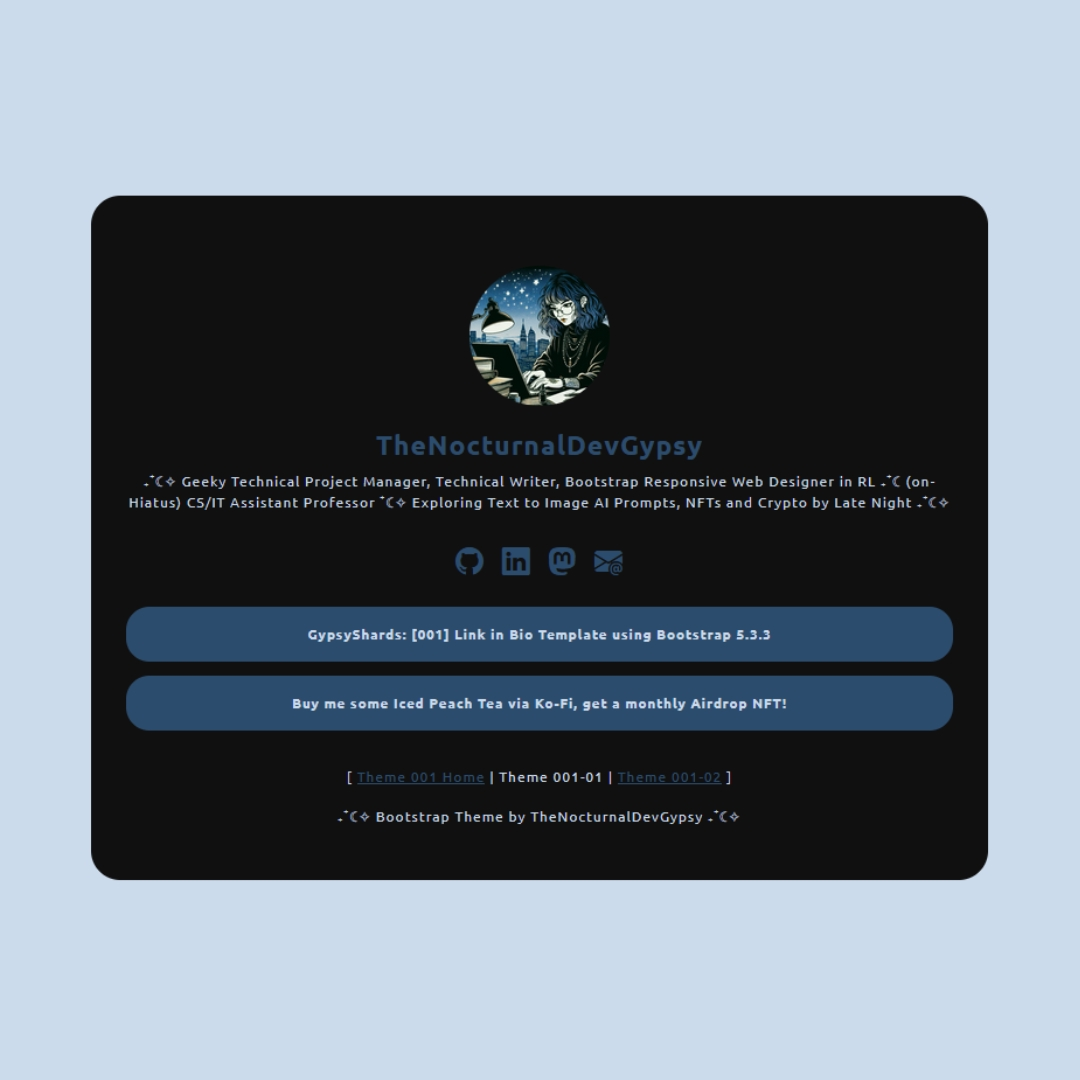
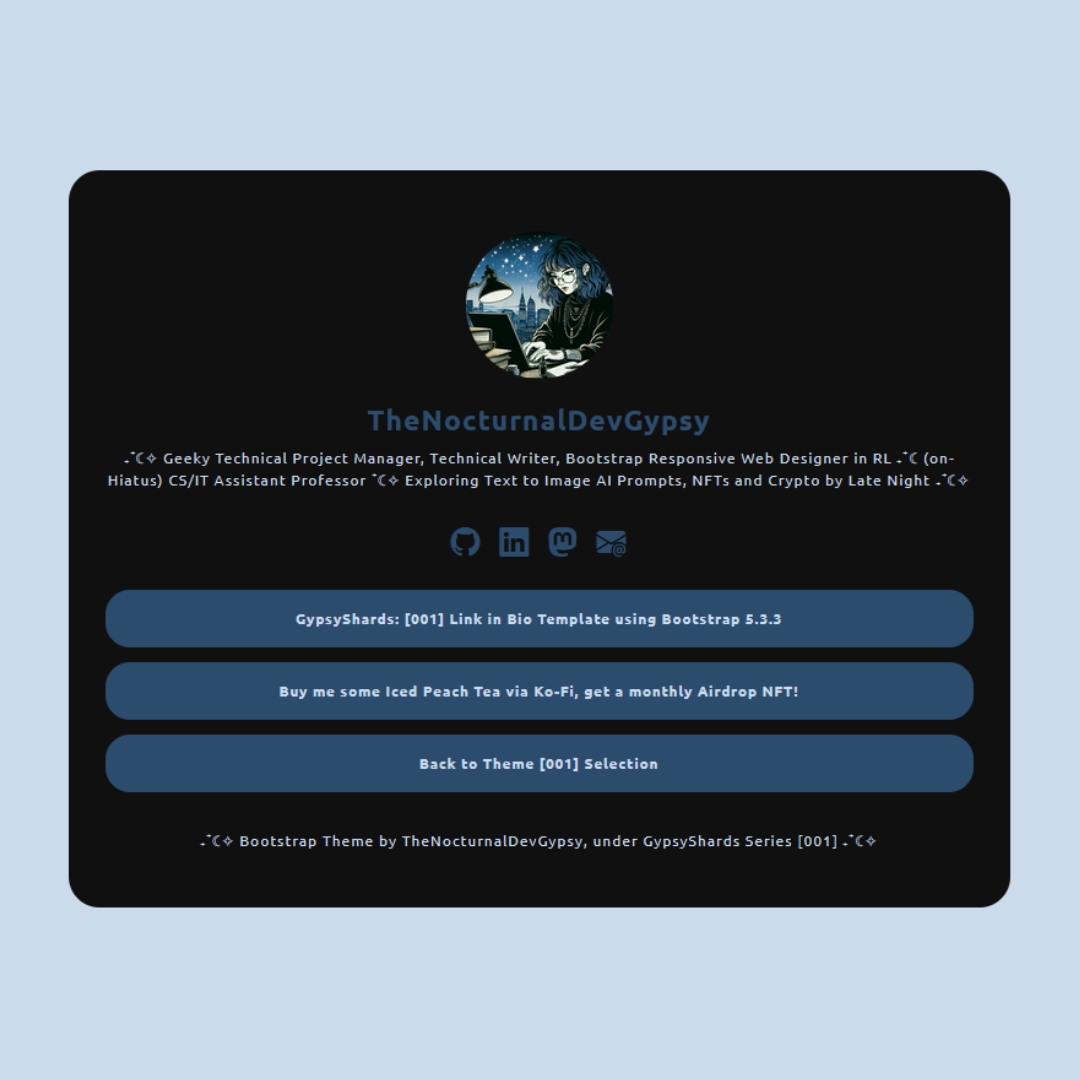
theme-001-01.html done, created theme-001-02.html and reconstructuring index.html

Changed region(s): [[0.0611, 0.1528, 0.9472, 0.8556]]

diff --git a/index.html b/index.html
@@ -52,14 +52,26 @@
       <div class="container">
 
          <!-- Theme 001 Link in Bio Template - Home > Header // Start -->
-            <div class="header">
-               <h1>GypsyShards: [Theme 001] Link in Bio Template using Bootstrap 5.3.3 by TheNocturnalDevGypsy</h1>
-               <p>Looks like you stumbled to one of my GypsyShards project at GitHub, this contains different theme/templates for Link in Bio. If you find this repo helpful, please don't forget to <i class="lni lni-star-half"></i> at <a href="https://github.com/thenocturnaldevgypsy/gypsyshards-bootstrap-template-linkinbio">GitHub</a> and buy me <i class="lni lni-coffee-cup"></i> at <a href="https://ko-fi.com/thenocturnaldevgypsy/">Ko-Fi</a>.</p>
+            <div class="header-container">
+               <h1>GypsyShards: [Theme 001] Link in Bio Templates using Bootstrap 5.3.3 by TheNocturnalDevGypsy</h1>
+               <p>Looks like you stumbled to one of my GypsyShards project at GitHub, this contains different theme/templates for Link in Bio which is responsive for desktop, tablet and mobile viewing. If you find this repo helpful, please don't forget to <i class="lni lni-star-half"></i> and <i class="bi bi-diagram-3"></i> at <a href="https://github.com/thenocturnaldevgypsy/gypsyshards-bootstrap-template-linkinbio">GitHub</a>, and buy me <i class="lni lni-coffee-cup"></i> at <a href="https://ko-fi.com/thenocturnaldevgypsy/">Ko-Fi</a>.</p>
             </div>
          <!-- Theme 001 Link in Bio Template - Home > Header // End -->
 
          <!-- Theme 001 Link in Bio Template - Home > Template Selection // Start -->
+            <div class="template-selection-container">
+               <a href="theme-001-01.html" class="template-button">
+                  <img src="assets/img/001-01.jpg" alt="GypsyShards [Theme 001.1] Link in Bio Template using Bootstrap 5.3.3">
+                  <p>Theme 001.01 - Simple Link in Bio: Profile Picture, H1, Description, Quick Social Media Links, Link Buttons and Simple Footer.</p>
+               </a>
+            </div>
          <!-- Theme 001 Link in Bio Template - Home > Template Selection // End -->
+
+         <!-- Theme 001 Link in Bio Template - Home > Footer // Start -->
+            <div class="footer-container">
+               ₊⁺☾✧ Bootstrap Theme by TheNocturnalDevGypsy, under GypsyShards Series [001] ₊⁺☾✧
+            </div>
+         <!-- Theme 001 Link in Bio Template - Home > Footer // Start -->
 
       </div>
       <!-- Theme 001 Link in Bio Template - Home // End -->

diff --git a/assets/css/style.css b/assets/css/style.css
@@ -3,11 +3,6 @@
 * Author: TheNocturnalDevGypsy [ Abegail Baustista Torrendon ]
 */
 
-html,
-body {
-   height: 100%;
-}
-
 body {
    background-color: #CCDBEC;
    display: flex;
@@ -21,30 +16,82 @@ body {
    color: #2c4c6e;
 }
 
-.header {
+.header-container {
    text-align: center;
-   margin-bottom: 20px;
+   margin-top: 30px;
+   margin-bottom: 40px;
 }
 
-.header h1 {
+.header-container h1 {
    font-size: 23px;
    font-weight: bold;
    color: #2c4c6e;
-   margin-bottom: 10px;
+   margin-bottom: 20px;
 }
 
-.header p {
+.header-container p {
    font-size: 13px;
 }
 
-.header a {
+.header-container a {
    color: #00416a;
    font-weight: bold;
    transition: 0.3s ease;
    text-decoration: none; 
 }
 
-.header a:hover {
+.header-container a:hover {
    color: #2c4c6e;
    text-decoration: underline;
+}
+
+.template-selection-container {
+   display: flex;
+   flex-wrap: wrap;
+   justify-content: center;
+   gap: 20px;
+   margin-bottom: 20px;
+}
+
+.template-button {
+   text-align: center;
+   max-width: 400px;
+   flex: 1 1 calc(100% - 20px); /* Default to full width */
+   border-radius: 8px;
+   background-color: #1d2c3d;
+   padding: 10px;
+   transition: transform 0.3s ease;
+   text-decoration: none;
+}
+
+.template-button img {
+   width: 100%;
+   height: auto;
+   border-radius: 8px;
+}
+
+.template-button p {
+   margin-top: 30px;
+   margin-left: 20px;
+   margin-right: 20px;
+   font-size: 13px;
+   color: #ccdbec;
+}
+
+.template-button:hover {
+   transform: scale(1.05);
+}
+
+.footer-container {
+   text-align: center;
+   font-size: 13px;
+   color: #101010;
+   margin-top: 40px;
+}
+
+/* Responsive adjustments */
+@media (min-width: 577px) {
+   .template-button {
+       flex: 1 1 calc(33.333% - 20px); /* 3 images per row on tablets and desktops */
+   }
 }

diff --git a/theme-001-01.html b/theme-001-01.html
@@ -72,13 +72,13 @@
                <div class="linkinbio-quick-links">
                   <a href="https://github.com/thenocturnaldevgypsy/gypsyshards-bootstrap-template-linkinbio" class="linkinbio-link-button">GypsyShards: [001] Link in Bio Template using Bootstrap 5.3.3</a>
                   <a href="https://ko-fi.com/thenocturnaldevgypsy/" class="linkinbio-link-button">Buy me some Iced Peach Tea via Ko-Fi, get a monthly Airdrop NFT!</a>
+                  <a href="index.html" class="linkinbio-link-button">Back to Theme [001] Selection</a>
                </div>
             <!-- Theme 001.1 Link in Bio Template > Quick Links Buttons // Start -->
 
             <!-- Theme 001.1 Link in Bio Template > Footer // Start -->
             <div class="linkinbio-footer">
-               <p>[ <a href="index.html">Theme 001 Home</a> | Theme 001-01 | <a href="theme-001-02.html">Theme 001-02</a> ]</p>
-               <p>₊⁺☾✧ Bootstrap Theme by TheNocturnalDevGypsy ₊⁺☾✧</p>
+               <p>₊⁺☾✧ Bootstrap Theme by TheNocturnalDevGypsy, under GypsyShards Series [001] ₊⁺☾✧</p>
             </div>
          <!-- Theme 001.1 Link in Bio Template > Footer // End -->
 

diff --git a/assets/css/style-001-01.css b/assets/css/style-001-01.css
@@ -3,16 +3,11 @@
 * Author: TheNocturnalDevGypsy [ Abegail Baustista Torrendon ]
 */
 
-html,
-body {
-   height: 100%;
-}
-
 body {
    display: flex;
    align-items: center;
-   padding-top: 40px;
-   padding-bottom: 40px;
+   padding-top: 20px;
+   padding-bottom: 20px;
    padding-left: 40px;
    padding-right: 40px;
    background-color: #CCDBEC;
@@ -57,11 +52,11 @@ a:hover {
    padding-right: 30px;
    background-color: #101010;
    border-radius: 25px;
-   margin: 50px auto; 
+   margin: 40px auto;
 }
 
 .linkinbio-profile-header {
-   margin-top: 50px;
+   margin-top: 40px;
    margin-bottom: 20px;
 }
 
